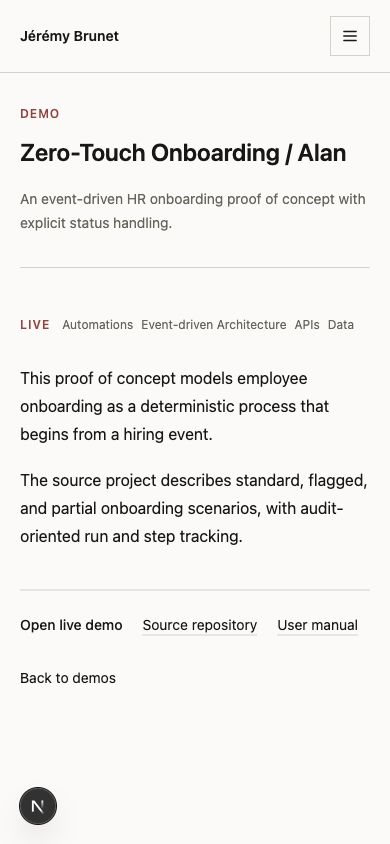
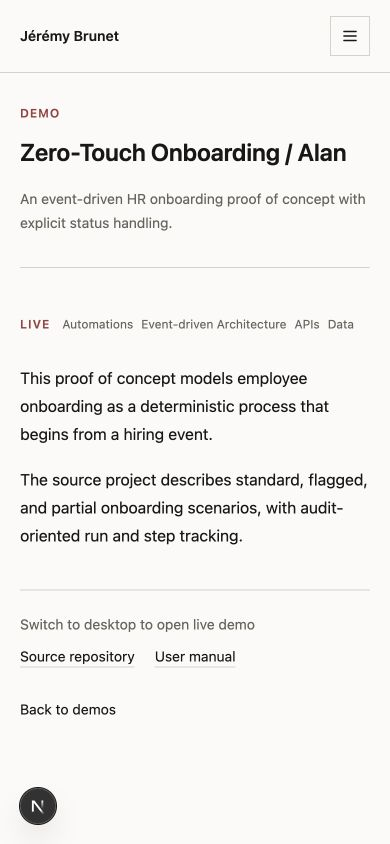
Restrict live demo launch on mobile

diff --git a/app/(site)/demos/page.tsx b/app/(site)/demos/page.tsx
@@ -1,5 +1,6 @@
 import Link from 'next/link'
 
+import { DemoLaunchAction } from '@/components/ui/DemoLaunchAction'
 import { PageHeader } from '@/components/ui/PageHeader'
 import {
   getDemoExternalUrl,
@@ -61,15 +62,11 @@ export default function DemosPage() {
                       Read context
                     </Link>
                     {externalUrl ? (
-                      <a
-                        aria-label={`Open live demo for ${demo.title}`}
-                        className="border-b border-[var(--border)] text-[var(--accent)]"
-                        href={externalUrl}
-                        rel="noopener noreferrer"
-                        target="_blank"
-                      >
-                        Open live demo
-                      </a>
+                      <DemoLaunchAction
+                        demoTitle={demo.title}
+                        externalUrl={externalUrl}
+                        linkClassName="border-b border-[var(--border)] text-[var(--accent)]"
+                      />
                     ) : null}
                   </div>
                 </article>

diff --git a/app/(site)/demos/[slug]/page.tsx b/app/(site)/demos/[slug]/page.tsx
@@ -2,6 +2,7 @@ import type { Metadata } from 'next'
 import Link from 'next/link'
 import { notFound } from 'next/navigation'
 
+import { DemoLaunchAction } from '@/components/ui/DemoLaunchAction'
 import { PageHeader } from '@/components/ui/PageHeader'
 import {
   getDemoBySlug,
@@ -81,15 +82,11 @@ export default async function DemoPage({ params }: DemoPageProps) {
       <div className="mt-10 border-t border-[var(--border)] pt-6">
         <div className="flex flex-wrap gap-x-5 gap-y-3 text-sm">
           {externalUrl ? (
-            <a
-              aria-label={`Open live demo for ${demo.title}`}
-              className="font-medium text-[var(--accent)]"
-              href={externalUrl}
-              rel="noopener noreferrer"
-              target="_blank"
-            >
-              Open live demo
-            </a>
+            <DemoLaunchAction
+              demoTitle={demo.title}
+              externalUrl={externalUrl}
+              linkClassName="font-medium text-[var(--accent)]"
+            />
           ) : null}
           {demo.repositoryUrl ? (
             <a

diff --git a/components/ui/DemoLaunchAction.tsx b/components/ui/DemoLaunchAction.tsx
@@ -1,0 +1,30 @@
+type DemoLaunchActionProps = {
+  demoTitle: string
+  externalUrl: string
+  linkClassName?: string
+}
+
+export function DemoLaunchAction({
+  demoTitle,
+  externalUrl,
+  linkClassName,
+}: DemoLaunchActionProps) {
+  return (
+    <>
+      <a
+        aria-label={`Open live demo for ${demoTitle}`}
+        className={['hidden lg:inline-flex', linkClassName]
+          .filter(Boolean)
+          .join(' ')}
+        href={externalUrl}
+        rel="noopener noreferrer"
+        target="_blank"
+      >
+        Open live demo
+      </a>
+      <span className="text-[var(--muted-foreground)] lg:hidden">
+        Switch to desktop to open live demo
+      </span>
+    </>
+  )
+}
